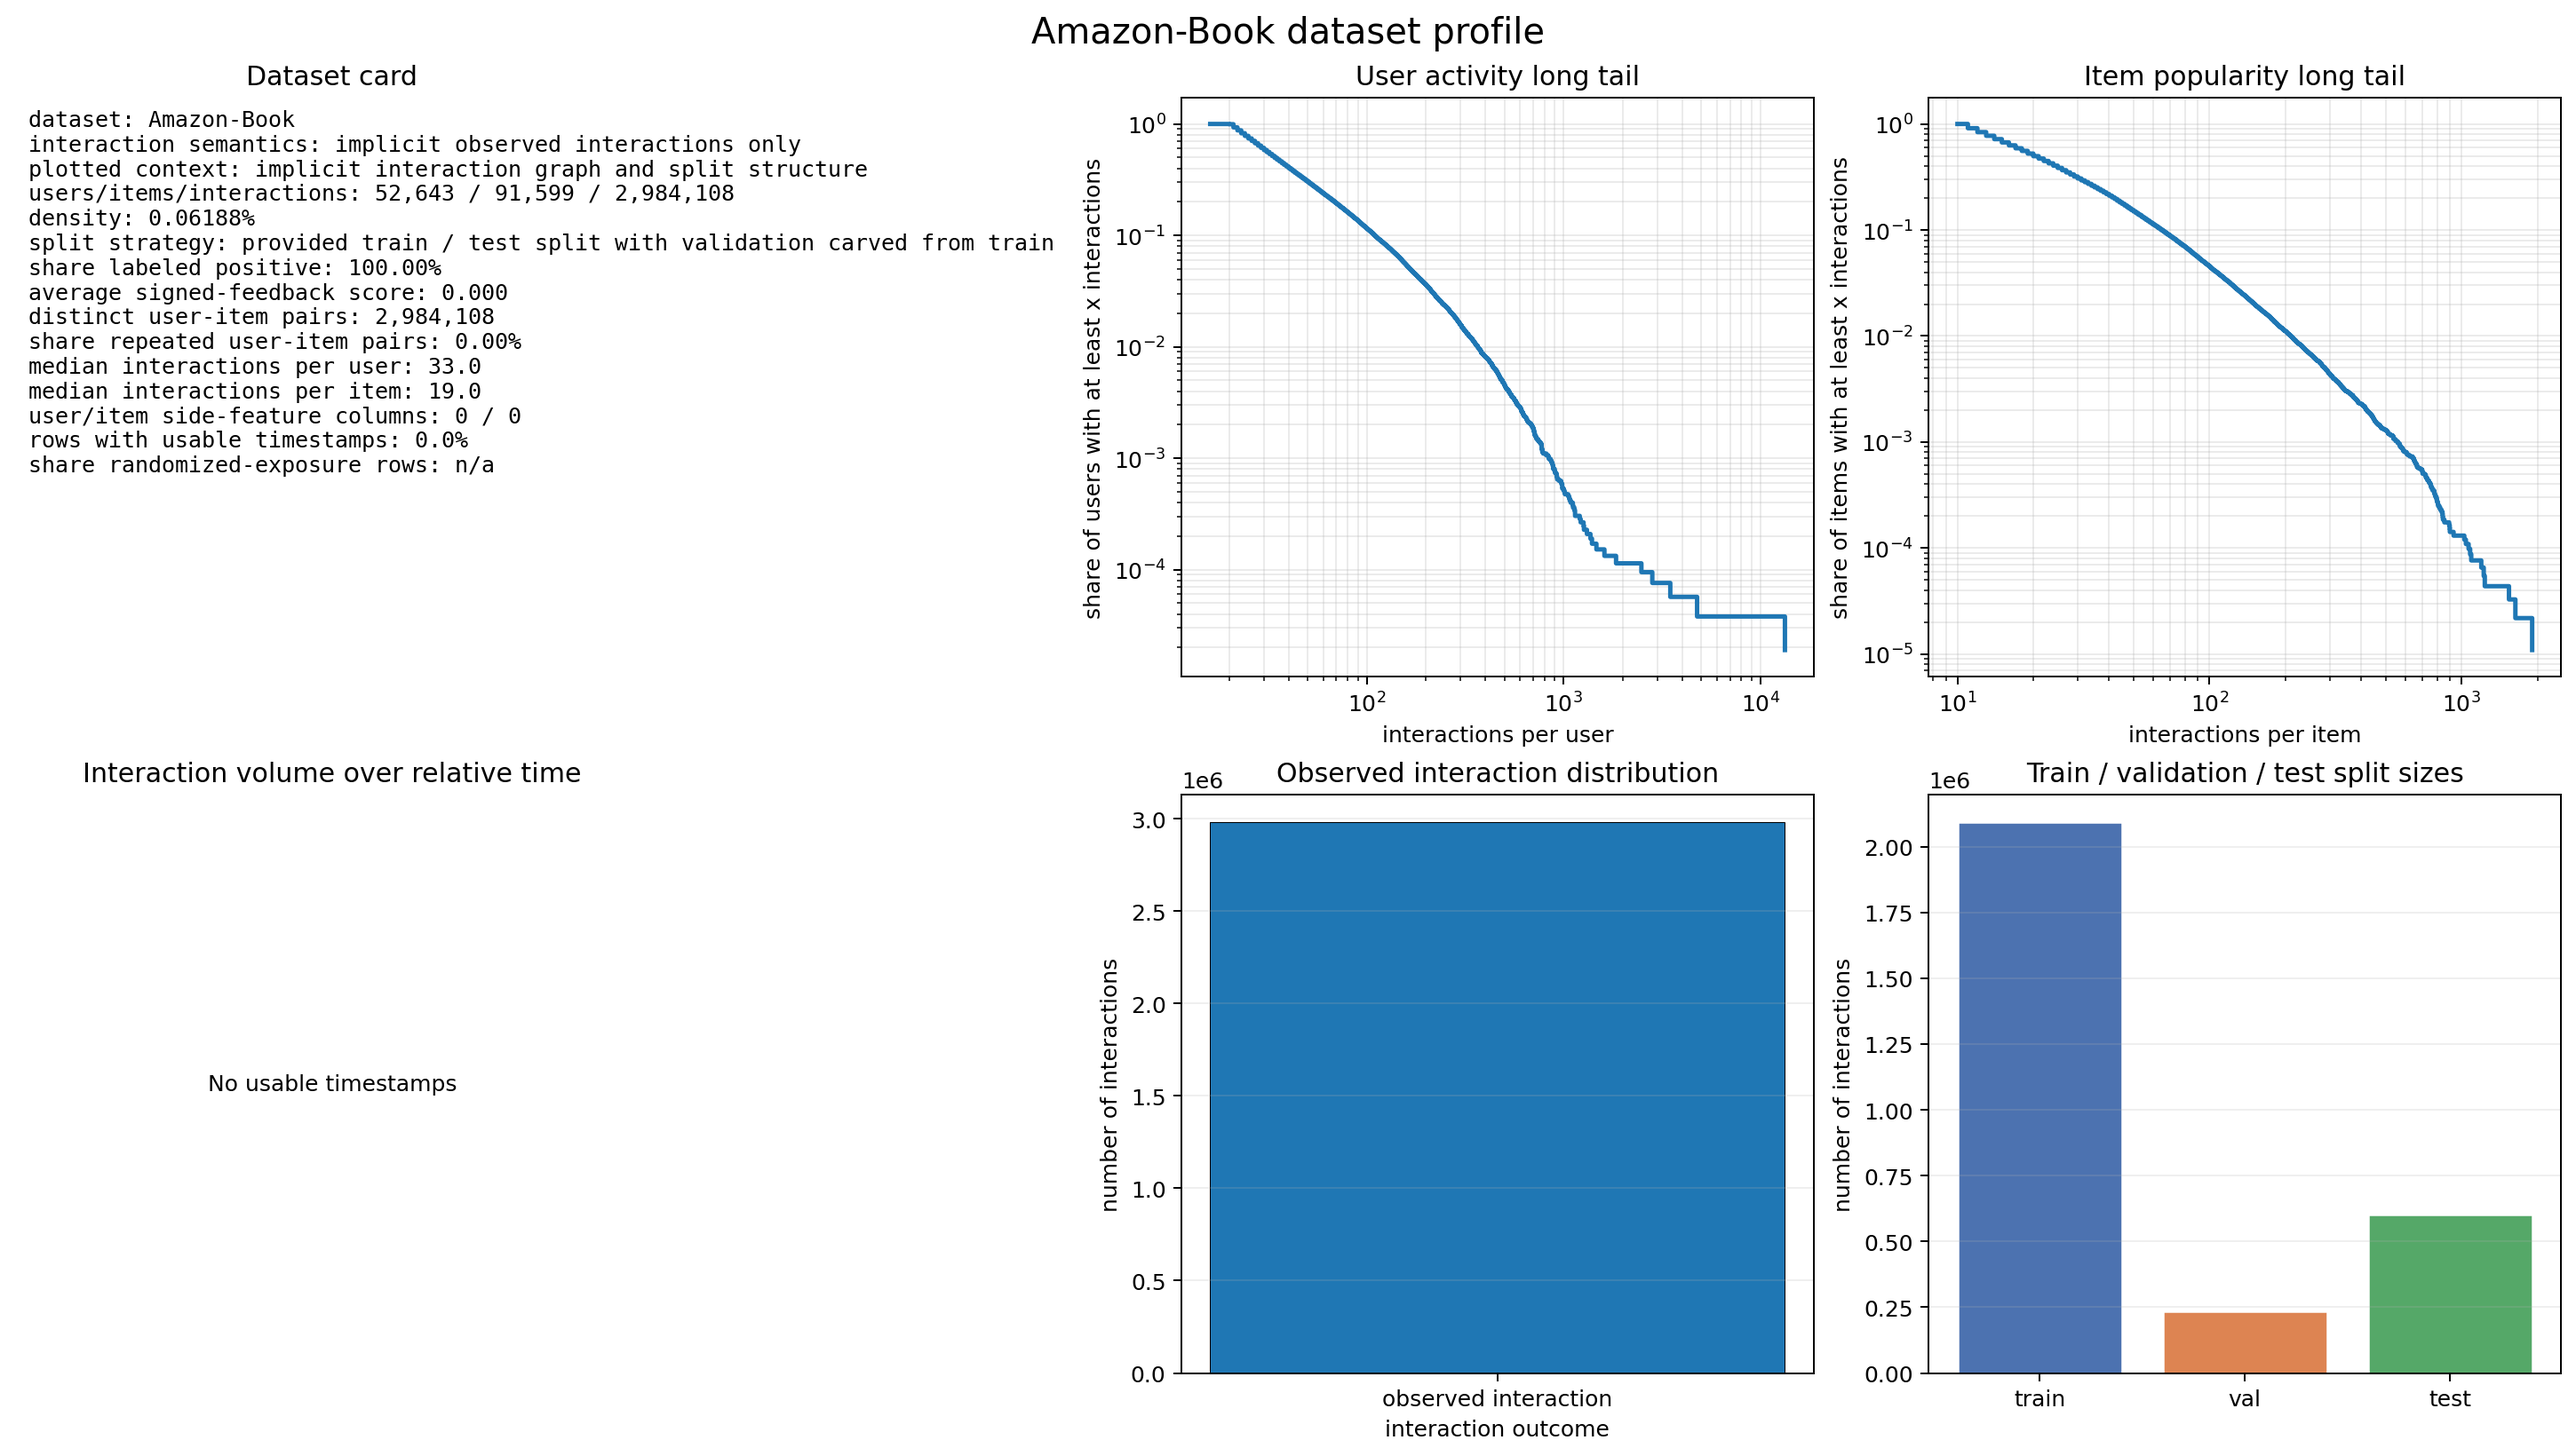
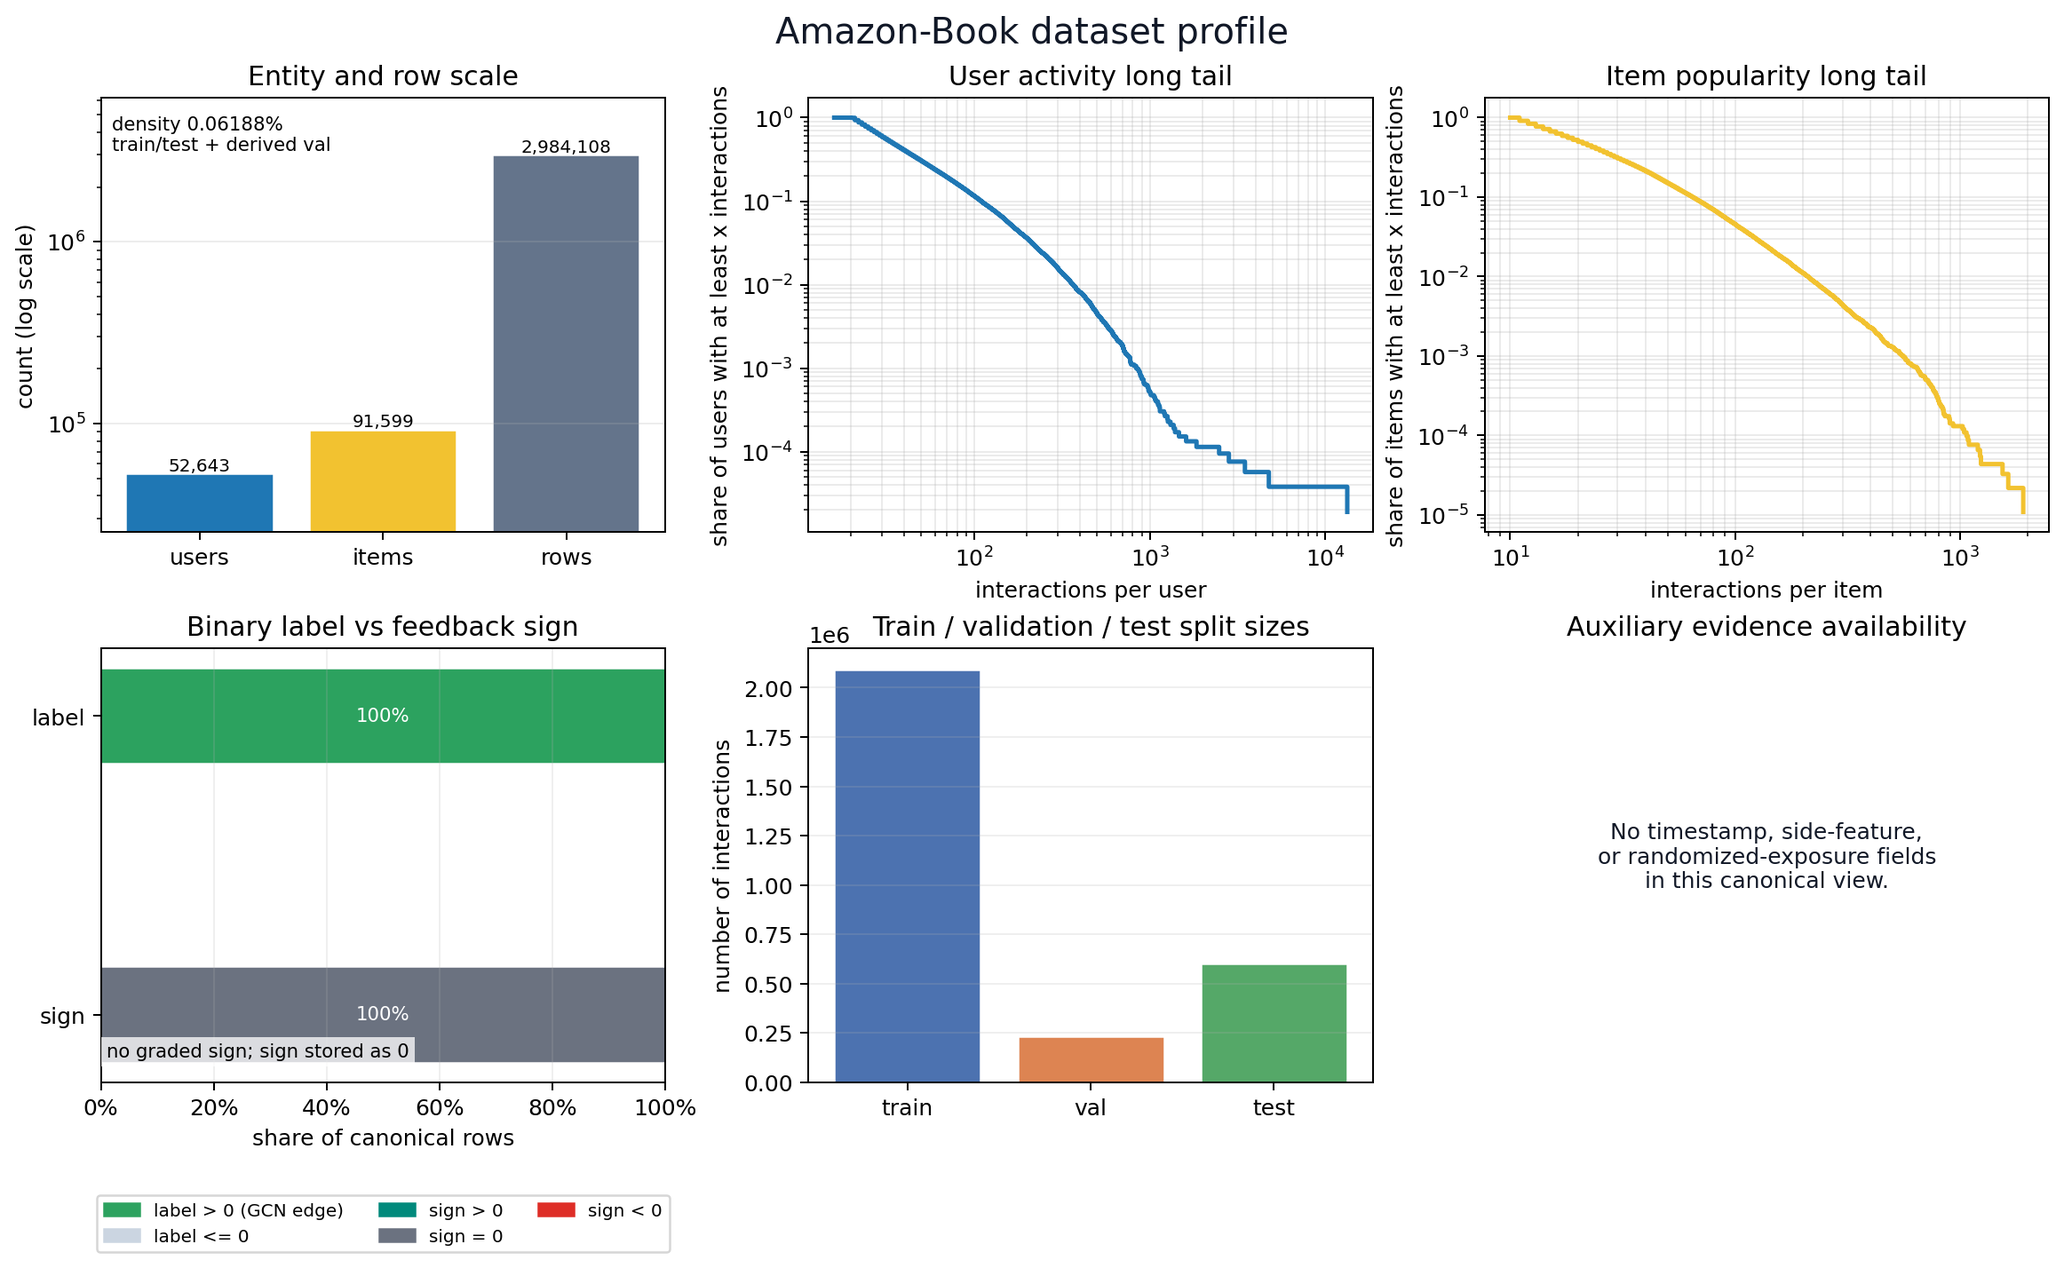
feat(reporting): enrich dataset and graph embedding figures
Add label/sign breakdowns to the dataset benchmark summary, refresh the dataset visualization assets, and include the new graph embedding figure outputs and index/review docs.

diff --git a/results/dataset_visualizations/benchmark_summary.md b/results/dataset_visualizations/benchmark_summary.md
@@ -3,6 +3,27 @@
 Generated from `src/data_exploration/explore_all_datasets.py` using the same
 canonical statistics that power the benchmark figures.
 
+## How to Read the Figures
+
+- `benchmark_overview.png` is the cross-dataset scale and feedback-semantics figure. Dataset colors identify datasets only. Green is reserved for `label > 0` graph/relevance rows; teal/red/slate-gray show `sign > 0`, `sign < 0`, and `sign = 0` feedback rows.
+- Each `*_profile.png` uses the same evidence order: entity/row scale, user long tail, item long tail, binary label versus graded sign, response signal or split, and the most relevant dataset-specific context.
+- `label > 0` is the binary relevance signal used for positive graph edges and top-K relevance. `sign` is a separate graded feedback descriptor, drawn in a different color family. They often overlap, but KuaiRec and KuaiRand show why they should not be treated as identical.
+- Constant or unavailable signals are not forced into one-bar charts. Exact counts and omitted-signal explanations are kept here and in `benchmark_summary.json`.
+
+## Committee Questions Covered
+
+| Likely question | Evidence to cite |
+| --- | --- |
+| How large and sparse is each dataset? | Overview scale/density panels plus the profile scale panel. |
+| Are the datasets long-tailed? | User-activity and item-popularity CCDF panels in each profile. |
+| What is a positive edge for the GCN? | Binary label row in each profile and the Chapter 3 graph-construction description. |
+| Are negative and neutral feedback available? | Sign row in each profile and the sign panel in the overview. |
+| Are label and sign the same thing? | Label/sign stacked bars and the overlap counts below; mismatches are explicitly reported as `label > 0 AND sign < 0`. |
+| Why are side features used only for some datasets? | Feature availability/context panels and the safe-feature policy in Chapter 3. |
+| Which plots are descriptive rather than performance evidence? | All figures in this directory are setup evidence; ranking claims require the results tables. |
+
+## Dataset Table
+
 | Dataset | Interactions | Pair reuse | Positive share | Timestamp coverage | Randomized share | User feat | Item feat | Split |
 | --- | ---: | ---: | ---: | ---: | ---: | ---: | ---: | --- |
 | Amazon-Book | 2,984,108 | 0.00% | 100.00% | 0.0% | - | 0 | 0 | provided train / test split with validation carved from train |
@@ -20,6 +41,8 @@ canonical statistics that power the benchmark figures.
 - Repeated-pair share: 0.00%
 - Split counts: train=2,093,875, val=234,212, test=603,378
 - Response summary (label): mean=1.0000, std=0.0000, min=1.0000, max=1.0000
+- Label distribution: label > 0=2,984,108, label <= 0=0.
+- Sign distribution: sign > 0=0, sign = 0=2,984,108, sign < 0=0.
 
 ## MovieLens 1M
 
@@ -29,6 +52,8 @@ canonical statistics that power the benchmark figures.
 - Repeated-pair share: 0.00%
 - Split counts: train=797,758, val=99,692, test=102,759
 - Response summary (raw_target): mean=3.5816, std=1.1171, min=1.0000, max=5.0000
+- Label distribution: label > 0=575,281, label <= 0=424,928.
+- Sign distribution: sign > 0=575,281, sign = 0=261,197, sign < 0=163,731.
 
 ## MovieLens 20M
 
@@ -38,6 +63,8 @@ canonical statistics that power the benchmark figures.
 - Repeated-pair share: 0.00%
 - Split counts: train=15,945,812, val=1,991,736, test=2,062,715
 - Response summary (raw_target): mean=3.5255, std=1.0520, min=0.5000, max=5.0000
+- Label distribution: label > 0=9,995,410, label <= 0=10,004,853.
+- Sign distribution: sign > 0=12,195,566, sign = 0=4,291,193, sign < 0=3,513,504.
 
 ## KuaiRec v2
 
@@ -47,6 +74,9 @@ canonical statistics that power the benchmark figures.
 - Repeated-pair share: 0.00%
 - Split counts: train=8,237,940, val=1,029,713, test=1,033,316
 - Response summary (raw_target): mean=0.9363, std=0.8354, min=0.0000, max=5.0000
+- Label distribution: label > 0=6,885,007, label <= 0=3,415,962.
+- Sign distribution: sign > 0=3,731,149, sign = 0=677, sign < 0=6,569,143.
+- Overlap rows (`label > 0` and `sign < 0`): 3,153,181.
 
 ## Taobao
 
@@ -56,6 +86,8 @@ canonical statistics that power the benchmark figures.
 - Repeated-pair share: 0.00%
 - Split counts: train=60,380,165, val=7,548,302, test=8,041,172
 - Response summary (raw_target): mean=0.2434, std=0.6848, min=0.0000, max=3.0000
+- Label distribution: label > 0=9,601,560, label <= 0=66,368,079.
+- Sign distribution: sign > 0=9,601,560, sign = 0=0, sign < 0=66,368,079.
 - Top behavior mix: pv=66,368,079, cart=5,039,405, fav=2,636,128, buy=1,926,027
 
 ## KuaiRand-1K
@@ -66,6 +98,9 @@ canonical statistics that power the benchmark figures.
 - Repeated-pair share: 0.00%
 - Split counts: train=9,136,755, val=1,142,098, test=1,142,594
 - Response summary (raw_target): mean=0.3844, std=0.6392, min=0.0000, max=5.0000
+- Label distribution: label > 0=4,453,651, label <= 0=6,967,796.
+- Sign distribution: sign > 0=3,142,603, sign = 0=8,269,070, sign < 0=9,774.
+- Overlap rows (`label > 0` and `sign < 0`): 1,651.
 - Exposure policy: randomized_share=0.38%, positive_rate_randomized=17.71%, positive_rate_standard=39.07%
 - Top behavior mix: neutral=6,958,852, long_view=2,935,267, click=1,308,484, like=181,371, comment=23,009, other=14,464
 - Source domains: random: n=43,026, pos=17.71%, standard: n=11,378,421, pos=39.07%
